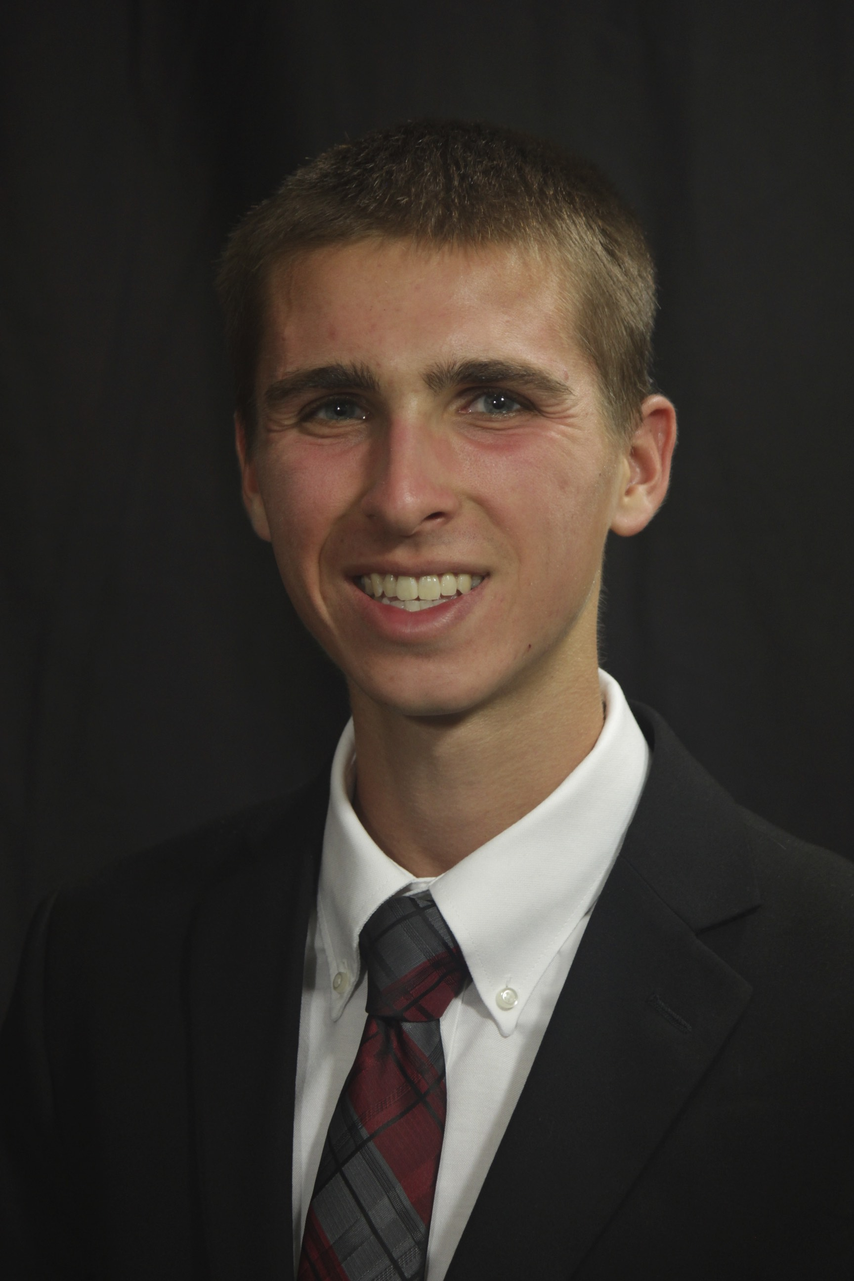
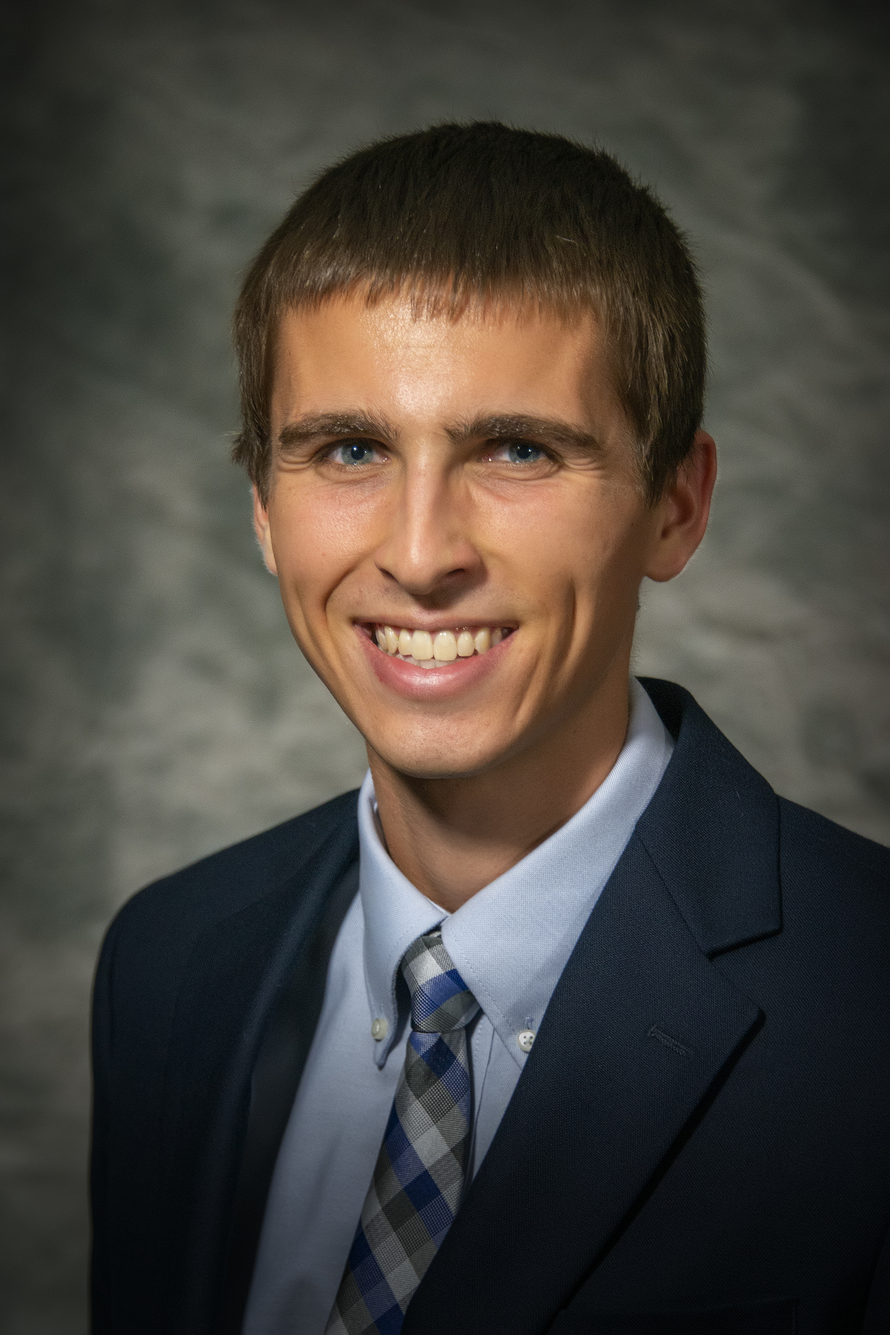
Add Ethan to candidates list

diff --git a/index.html b/index.html
@@ -56,6 +56,23 @@
 			<br style="clear: both"/>
 		</p>
       </div>
+      <div>
+        <h3>Ethan Mines</h3>
+		<p>
+			<img src="imgs/Ethan.jpg" width="100" class="candidate"/>
+			My name is Ethan Mines, and I'm running for reelection as ACM president. I believe I can apply the experience I have (and the many mistakes I've made) to make ACM even better this coming year.
+
+			I now realize that people don't like going to meetings so late, installing complicated programs in advance of a workshop, or being overwhelmed with pressure to do more and more technically.
+
+			I'm not afraid to get my hands dirty, whether it's putting out the signs the night before a meeting or taking leftover plates back to the team room.
+
+			Most of the CS department knows my name and face now, and I can continue building ACM's relationship with them.
+
+			And most of all, I frickin' love this club. I've been coming here since the first meeting my freshmen year, and I'll probably be hanging out in the UACS Slack until I'm eighty.
+			<br style="clear: both"/>
+		</p>
+      </div>
+
     <h2>Our Technology Stack</h2>
       <div>
         <p>
